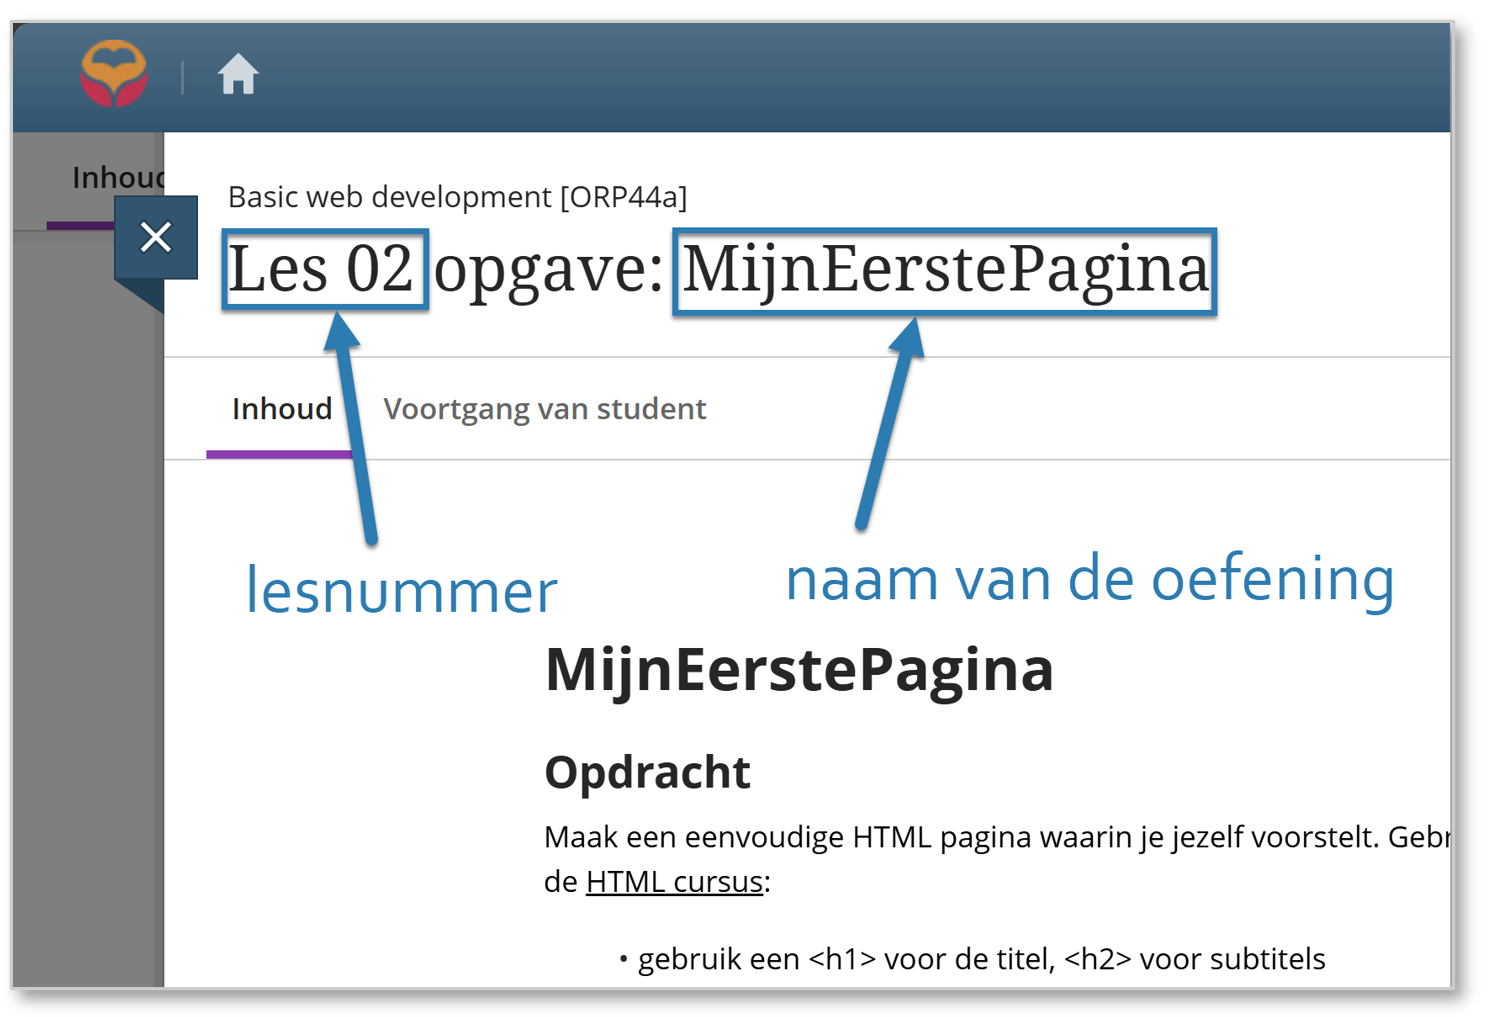
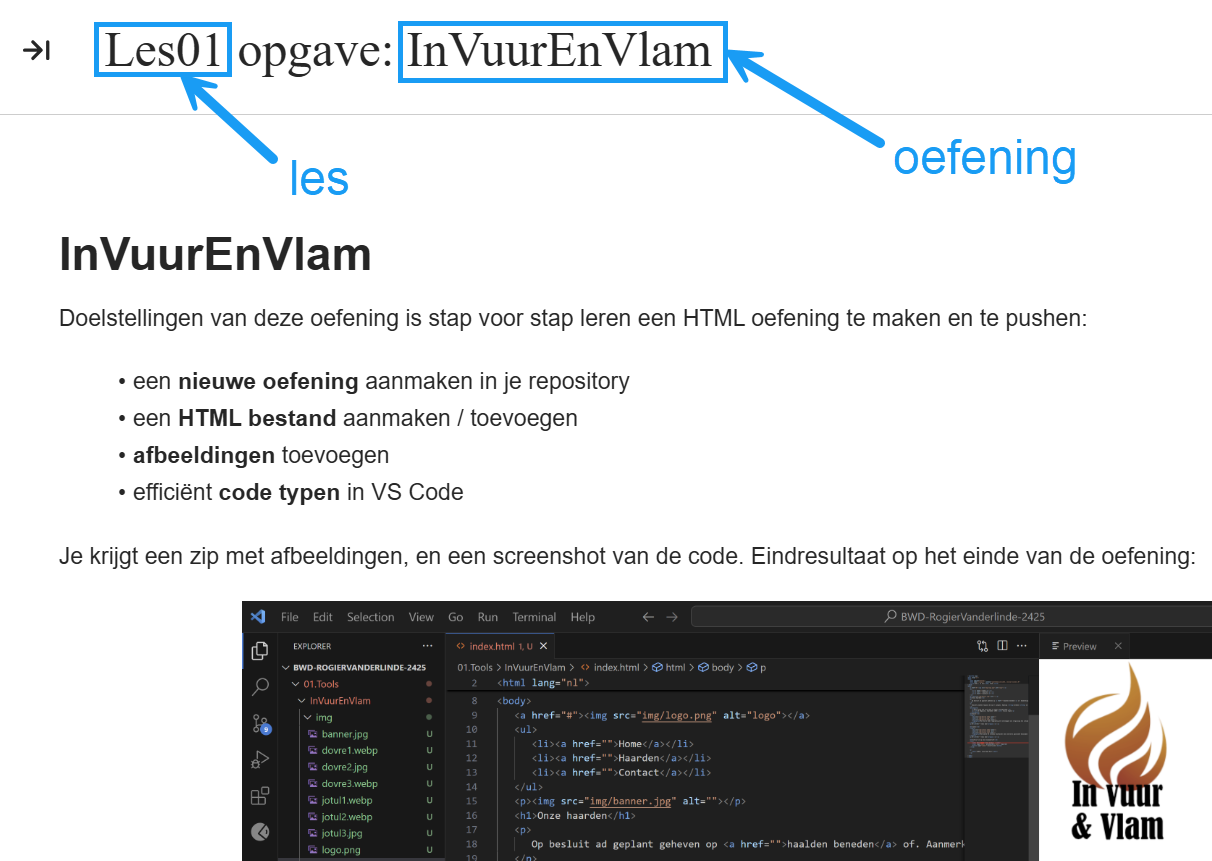
herwerken

diff --git a/02_vscode.html b/02_vscode.html
@@ -155,15 +155,15 @@
       <h3>oefening aanmaken</h3>
       <p>Eerst moet je weten om <strong>welke les</strong> en wat de <strong>naam van de oefening</strong> is. Dit vind je terug in de opgave:</p>
       <figure>
-         <img src="img/02_vscode/les en oefening.png" alt="" class="w-500">
+         <img src="img/02_vscode/les en oefening.png" alt="" class="w-500 bordered">
          <figcaption>nummer van de les en naam van de oefening</figcaption>
       </figure>
       <p>Stappen:</p>
       <ol>
-         <li>maak een <strong>submap</strong> in de les met <em>exact</em> de naam van de oefening, hier <em>MijnEerstePagina</em></li>
+         <li>maak een <strong>submap</strong> in de les met <em>exact</em> de naam van de oefening, hier <em>InVuurEnVlam</em></li>
+         <li>voeg daarin eventuele afbeeldingen en ander <strong>startmateriaal</strong> toe</li>
          <li>voeg een bestand <strong>index.html</strong> toe</li>
          <li>maak de <strong>HTML basiscode</strong> aan (b.v. met de <strong>html:5 + tab</strong> shortcut)</li>
-         <li>geef de pagina een titel</li>
       </ol>
       <figure>
          <img src="img/02_vscode/stap1.png" alt="" class="w-300">
@@ -172,6 +172,10 @@
       <figure>
          <img src="img/02_vscode/stap2.png" alt="" class="w-300">
          <figcaption>...met exact de naam van de oefening...</figcaption>
+      </figure>
+      <figure>
+         <img src="img/02_vscode/stap2b.png" alt="" class="w-300">
+         <figcaption>...voeg eventuele afbeeldingen toe (via Windows Verkenner)...</figcaption>
       </figure>
       <figure>
          <img src="img/02_vscode/stap3.png" alt="" class="w-300">
